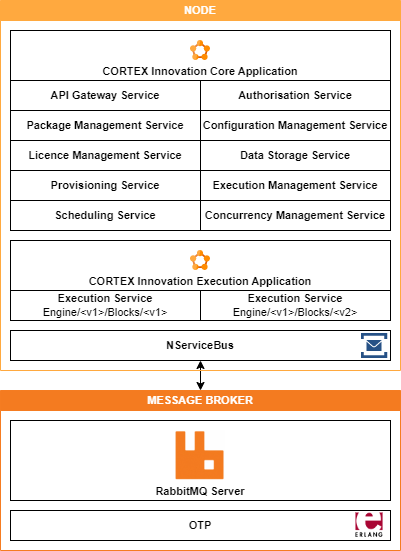
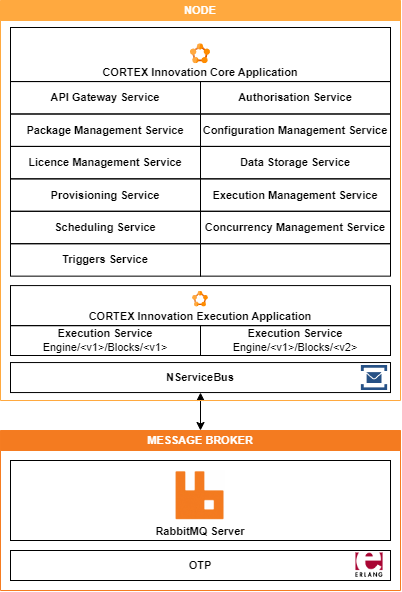
review

Changed region(s): [[0.0, 0.0, 1.0, 1.0]]

diff --git a/content/en/blog/releases/2023.X/2023.9.md b/content/en/blog/releases/2023.X/2023.9.md
@@ -30,19 +30,11 @@ Six [new Blocks][New Blocks] have been added to the [{{% ctx %}} Block Packages]
 
 * [Data Storage][] - Allowing for communication between flows by using the shared Data Storage within the HA Platform
 
-Windows Server 2022 Support
-  Gateway
-  Core Application
-  Execution Application
-  Load Balancer
+TODO LINK : {{% ctx %}} Gateway has been rebranded and theme support for light and dark mode has been added.
 
-Cortex Gateway Rebrand
-  Colours
-  Fonts
-  Icons
-  Debug Token
+TODO LINK : Support for Windows Server 2022 has been added to the Innovation Platform as part of the 2023.9 release, and support for Windows Server 2016 has been removed.
 
-Finally, this [Product Portal][] has been updated to reflect the [new and upcoming services][HA Platform], and reference documentation has been added for the [new blocks][New Blocks].
+Finally, this [Product Portal][] has been updated to reflect the [new services][HA Platform], and reference documentation has been added for the [new blocks][New Blocks].
 
 ### Components
 
@@ -84,6 +76,10 @@ Triggers can be configured to control when the execution occurs, and a trigger c
 * Community (Available for SNMPV1 and SNMPV2)
 * Agent Address (Available for SNMPV1)
 
+Support for SNMPV3 will be added in a future release, this is targeted for 2023.11 or 2024.1.
+
+Additional types of trigger (e.g. Files created, emails received, Kafka topic notifications) will also be added in future releases.
+
 Affected Components:
 
 * [{{% ctx %}} Innovation Core Application][CORTEX Innovation Core Application]
@@ -113,15 +109,25 @@ Affected Components:
 
 #### CORTEX Gateway Rebranding
 
-{{% ctx %}} Gateway has been rebranded to follow We Are {{% ctx %}} branding guidelines, this includes:
+{{% ctx %}} Gateway has been rebranded, this includes:
 
 * Updating the fonts and colours
 * Refreshing the icons
 * Updating the debug token shown when debugging flows
 
+Also, theme support has been added, and both light and dark themes have been included. It is possible to switch themes by clicking the user icon on the top right hand corner of the home page, selecting settings, and choosing light or dark theme. The choice of selected theme is persisted within your browser's local storage.
+
+Affected Components:
+
+* [{{% ctx %}} Gateway][Gateway]
+
 #### Windows Server 2022 Support
 
-Support for Windows Server 2022 has been added to the Innovation Platform as part of the 2023.9 release.
+TODO LINK: Support for Windows Server 2022 has been added to the Innovation Platform as part of the 2023.9 release, and support for Windows Server 2016 has been removed.
+
+Affected Components:
+
+* None
 
 #### Product Portal
 
@@ -135,26 +141,35 @@ The following bugs have been fixed in the 2023.9 release:
 
 Some {{% ctx %}} [Data Types][] were not serialisable within the Innovation platform, all [Data Types][] have been verified and updated to be serialisable.
 
-This issue has been resolved as part of the 2023.9 platform.
-
-#### Update Certificates with Different Casing for Node Names Caused the Certificates to be Invalid
+#### Updating Certificates with Different Casing for Node Names Caused the Certificates to be Invalid
 
 When updating certificates within the Innovation platform, any nodes with different casing from the previous certificate would not be valid. This has been fixed, and certificates with different casing will now match the nodes correctly.
-
-This issue has been resolved as part of the 2023.9 platform.
 
 #### TLS Bug with CortexSSLBestPractices Script
 
 The CortexSSLBestPractices script previously did not correctly disable TLS1.1.
 
-This issue has been resolved as part of the 2023.9 platform.
+#### Write Data with Key block does not accept null values
+
+TODO
+
+#### Grafana Promtail Problem Details Incorrect Reporting of 4xx 5xx as successful
+
+TODO
+
+#### Parallel Flows can Cause an Exception
+
+TODO
+
+#### Collection Scope default not set
+
+TODO
+
+#### Incorrect Help Links for Data Storage Blocks
+
+TODO
 
 ### Deprecated Features
-
-The following features have been deprecated in the 2023.9 release:
-
-TODO - Check this
-* Support for Windows Server 2016 will be removed in a future release, this is targeted for 2023.9 or 2023.11, and support for Windows Server 2022 will be added.
 
 The following features were previously deprecated in the 2022.9 release:
 
@@ -178,6 +193,12 @@ The FlowExecutionStoppedException has been renamed to FlowExecutionCancelledExce
 
 This is potentially breaking if you were interacting with the exception and using its name to make decisions within a flow. Any occurrence of this will need to be updated to use the new name.
 
+#### Data Storage Block Namespace Change
+
+TODO
+
+This is potentially breaking if you were . Any occurrence of this will need to be updated to use the new name.
+
 ### Breaking Changes
 
 There are no known breaking changes as part of this release of the platform.
@@ -190,7 +211,6 @@ There are no known limitations added as part of this release of the platform.
 
 ### Operating Systems
 
-TODO: Validate
 | OS Type | Supported Versions |
 |-|-|-|
 | Windows | <ul><li>Server 2019</li><li>Server 2022</li></ul> |
@@ -198,7 +218,6 @@ TODO: Validate
 
 ### Databases
 
-TODO: Validate
 | Database Type | Supported Versions                                        |
 |---------------|-----------------------------------------------------------|
 | SQL Server    | <ul><li>SQL Server 2016</li><li>SQL Server 2019</li></ul> |
@@ -216,7 +235,7 @@ Note: This is for the platform's functionality and does not represent the databa
 
 ## Install Instructions
 
-If you are installing a new 2023.9 platform or adding it to an existing 7.2 Installation see the guidance below; otherwise, if you are upgrading from an existing 2023.5 platform refer to the [Upgrade Instructions][].
+If you are installing a new 2023.9 platform or adding it to an existing 7.2 Installation see the guidance below; otherwise, if you are upgrading from an existing 2023.7 platform refer to the [Upgrade Instructions][].
 
 Installing Innovation Only:
 
@@ -239,7 +258,7 @@ Releases are currently forecast to be made available on:
 | Release | Release Type   | Forecast Release Date               |
 |---------|----------------|-------------------------------------|
 | 2023.11 | [Fast Track][] | Week commencing 4th December 2023   |
-| 2024.1  | [Fast Track][] | Week commencing 12th February 2024  |
+| 2024.1  | [Release][]    | Week commencing 12th February 2024  |
 
 Any changes to these forecasts will be announced via the [News channel][].
 

diff --git a/content/en/docs/2023.9/Whats New/_index.md b/content/en/docs/2023.9/Whats New/_index.md
@@ -16,7 +16,7 @@ weight: 1
 
 This release introduces:
 
-* Two new services within the [HA Platform][]:
+* One new service within the [HA Platform][]:
   * [Triggers Service][]
 * Six [New Blocks][] have been added to the Innovation platform to work with:
   * [Data Storage][] - Allowing for communication using the shared Data Storage within the HA Platform
